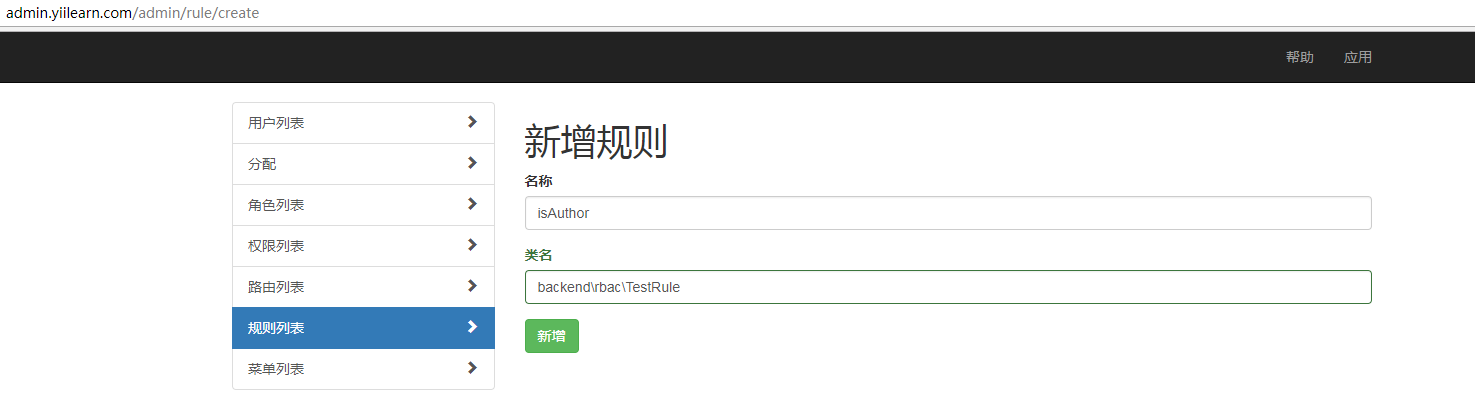
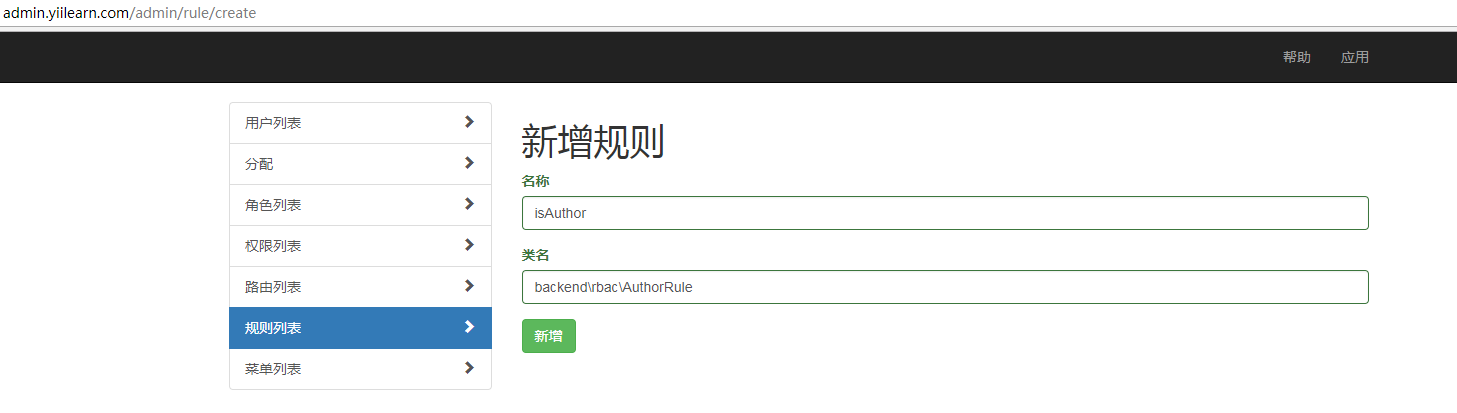
rbac

diff --git a/_posts/yii/RBAC.md b/_posts/yii/RBAC.md
@@ -1,3 +1,13 @@
+---
+title: Yii-RBAC
+date: 2018-10-11 00:00:02
+tags:
+    - yii
+    - RBAC
+    - yii-admin
+categories:
+    - yii  
+---
 
 ## 说明  
 可以先参看 [中文官方文档](https://www.yiichina.com/doc/guide/2.0/security-authorization)  
@@ -122,17 +132,68 @@ yii migrate --migrationPath=@mdm/admin/migrations
 
 ![test](/images/yii/rbac/admin-test3.png)
 
-<<<<<<< HEAD
-![test](/images/yii/rbac/admin-test3.png)  
-=======
 ![test](/images/yii/rbac/admin-test3.png)
 ### 规则 rule  
-规则是对权限的补充，算是细分的权限，一般权限是对应这路由的，而规则可以更细一点，比方说一个角色没有更新文章的权限，但是可以有更新自己文章的权限，这个时候就用到rule了  
+规则是对权限的补充，算是细分的权限，一般权限是对应这路由的，而规则可以更细一点，比方说一个角色没有更新文章的权限，但是他需要更新自己文章的权限，这时就需要给他赋值更新文章的权限，但是这样他权限就太大了，因为还可以更新别人的文章，这时就需要给他增加一个rule，来验证这篇文章是否属于自己，如果不属于自己则依旧没权限  
+
+我们以官网使用rule为例子 [这里](https://www.yiichina.com/doc/guide/2.0/security-authorization) 来用 yii-admin 的方式实现  
 
 
 首先创建 rule 类, 如下    
 ```php
+<?php
+namespace backend\rbac;
+
+use yii\rbac\Rule;
+
+/**
+ * 创建规则，相对于路由(权限)的权限更加细分
+ * 如果该用户满足某个路由(权限)，但是不满足规则依旧不可以访问
+ */
+class AuthorRule extends Rule
+{
+    // 规则名
+    public $name = 'isAuthor';
+
+    /**
+     * @param string|integer $user 用户 ID.
+     * @param Item $item 该规则相关的角色或者权限
+     * @param array $params get参数
+     * @return boolean 代表该规则相关的角色或者权限是否被允许
+     */
+    public function execute($user, $item, $params)
+    {
+        /**
+         * 请求 和参数值 route:http://admin.yiilearn.com/test/index3?id=10
+{
+    "user": 2,
+    "item": {
+        "type": "2",
+        "name": "updateOwnPost",
+        "description": "更新自己的",
+        "ruleName": "isAuthor",
+        "data": {
+            "abc": "cba"
+        },
+        "createdAt": "1539229574",
+        "updatedAt": "1539229574"
+    },
+    "params": {
+        "id": "10"
+    }
+}
+         */
+        // echo json_encode(['user' => $user, 'item' => $item, 'params' => $params]);exit;
+        // 直接返回false表示拒绝，具体的实现可以通过参数进行逻辑判断  
+        return false;
+    }
+}
 ```
+我们现在已经有 ibunao 用户了，角色(role1)、权限、路由如下  
+![rule](/images/yii/rbac/admin-rule7.png)  
+![rule](/images/yii/rbac/admin-rule8.png)  
+
+现在我们添加用户 jidan 用户，为了让其访问 `/test/index3`  
 
 添加rule  
 
@@ -142,7 +203,7 @@ yii migrate --migrationPath=@mdm/admin/migrations
 
 ![rule](/images/yii/rbac/admin-rule2.png)  
 
-为权限或者角色添加rule  
+增加权限绑定rule  
 
 ![rule](/images/yii/rbac/admin-rule3.png)
 
@@ -150,25 +211,50 @@ yii migrate --migrationPath=@mdm/admin/migrations
 
 ![rule](/images/yii/rbac/admin-rule4.png)
 
-#### 发现错误  
-添加完了我们验证一下   
-![rule](/images/yii/rbac/admin-rule5.png)  
-发现无权限(正常)，并且没有走rule，这是因为什么呢？  
-还记得 文章开头 **说明** 部分将的yii、yii-admin验证的区别么？  
-yii-admin 验证的时候验证的是 route ，也就是 `/goods/index`，验证的rule当然也就是 `/goods/index` 绑定的 rule  
-而我错误的将 rule 设置到了 权限 test1 上了，但是这个先不用改，我们来验证一下 yii验证 和 yii-admin验证的区别  
-为了使用 yii 的验证，我们需要改动两个地方  
+然后就是创建角色 role2, 并绑定用户 jidan    
+
+![rule](/images/yii/rbac/admin-rule9.png)
+
+
+#### Rule类进行检验  
+我们可以直接在 `execute()` 方法中返回 `true` 或 `false` , 请求 `http://admin.yiilearn.com/test/index3?id=10` 会发现分别是可以访问和拒绝访问，表示我们设置的rule已经生效了  
+我们可以根据传过来的参数来进行自己的逻辑判断，来进行拒绝和通过  
 ```php
-配置文件 config/main.php 注释掉 使用 yii-admin 验证的部分  
+请求:http://admin.yiilearn.com/test/index3?id=10  
+execute 方法接收到的参数
+{
+    "user": 2, # 用户id
+    "item": { # 权限信息
+        "type": "2",
+        "name": "updateOwnPost",
+        "description": "更新自己的",
+        "ruleName": "isAuthor",
+        "data": {
+            "abc": "cba"
+        },
+        "createdAt": "1539229574",
+        "updatedAt": "1539229574"
+    },
+    "params": { # 请求参数
+        "id": "10"
+    }
+}
+```
+
+#### 使用yii的验证  
+
+```php
+1. 配置文件 config/main.php 注释掉 使用 yii-admin 验证的部分或者允许test/index3进行访问  
 // 'as access' => [
 //     'class' => 'mdm\admin\components\AccessControl',
 //     'allowActions' => [
 //         'site/*',//允许访问的节点，可自行添加
 //         'admin/*',//允许所有人访问admin节点及其子节点
+//         //'test/index3'
 //     ]
 // ],
-
-在 GoodsController 控制器添加验证，这个忘记的可以参看 AFC验证 部分    
+2. 在使用的类加过滤器  
+在 TestController 控制器添加验证，这个忘记的可以参看 AFC验证 部分    
 public function behaviors()
 {
     return [
@@ -176,23 +262,39 @@ public function behaviors()
             'class' => AccessControl::className(),
             'rules' => [
                 [
-                    'actions' => ['index'],
+                    'actions' => ['index3'],
                     'allow' => true,
-                    'roles' => ['role1'],
+                    'roles' => ['/test/index3'],
                     'roleParams' => ['a', 'b', 'c'],
                 ],
             ],
         ],
     ];
 }
+
+这是 execute 方法接收的参数为  
+{
+    "user": 2, # 用户id
+    "item": { # 权限详情
+        "type": "2",
+        "name": "updateOwnPost",
+        "description": "更新自己的",
+        "ruleName": "isAuthor",
+        "data": {
+            "abc": "cba"
+        },
+        "createdAt": "1539229574",
+        "updatedAt": "1539229574"
+    },
+    "params": [ # roleParams 配置的参数
+        "a",
+        "b",
+        "c"
+    ]
+}
 ```
-你会发现很自然的通过了，因为这个检验的逻辑是判断当前用户是访问 `goods/index` 时，用户的角色是否是 `role1`,符合也就很自然的通过了  
 
-#### 更正  
-将代码改回 yii-admin 验证  
-首先我们要添加
 
->>>>>>> 8124fc1b1c91734b1ae78a0f99b4606eba765757
 ### 用户列表  
 `yii-admin` 为后台也提供了一系列的用户操作功能（注册、改密码等），但是默认是没有显示的，需要自己根据自己的需要添加按钮  
 

diff --git a/_posts/yii/AFC验证.md b/_posts/yii/AFC验证.md
@@ -1,0 +1,83 @@
+---
+title: Yii-AFC验证
+date: 2018-10-11 00:00:02
+tags:
+    - yii
+    - AFC验证
+categories:
+    - yii  
+---
+
+
+## 实例  
+```
+use yii\web\Controller;
+use yii\filters\AccessControl;
+
+class SiteController extends Controller
+{
+    public function behaviors()
+    {
+        return [
+            'access' => [
+                'class' => AccessControl::className(),
+                'only' => ['login', 'logout', 'signup'],
+                'except' => ['login'],
+                'rules' => [
+                    [
+                        'allow' => true,
+                        'actions' => ['login', 'signup'],
+                        'roles' => ['?'],
+                    ],
+                    [
+                        'allow' => true,
+                        'actions' => ['logout'],
+                        'roles' => ['@'],
+                    ],
+                ],
+            ],
+        ];
+    }
+    // ...
+}
+```
+## 验证流程    
+### AccessControl过滤器   
+> 注意，如果AccessControll配置的需要验证的action，在配置的rules中如果验证没有通过或者没有rule来验证当前请求的action(也就是不符合所有rule需要验证的action)都会拒绝访问  
+
+####  `only` 和 `except` 配置  
+`only` 表示需要验证的 `actionId` ,如果为空，这个控制器的所有action都将会向下进行验证逻辑  
+
+`except` 表示过滤掉的 `actionId` 这些action将不会走校验， `except` 的优先级更高，如果同时属于 `only` 和 `except` 那么这个action将不会走验证  
+
+#### denyCallback 配置  
+这个是配置一个匿名函数，一般也不用配置，在 rule 被拒绝的时候如果 rule 没有配置 `denyCallback` 将会执行这个，通常用来抛出异常的，可以参考 yii的兜底方法 `denyAccess`  
+
+### AccessRule 验证规则  
+#### 配置  
+```php
+# 必填，如果为false表示不管通过不通过验证，都为false拒绝  
+'allow' => true,
+# 选填，判断当前action是否属于验证的范围，如果为空，表示所有action都要验证  
+'actions' => ['login', 'signup'],
+# 选填，判断当前controller是否属于验证的范围，如果为空，表示所有controller都要验证  
+'controllers' => ['site'],
+# 选填，判断当前 ip 是否属于验证的范围，如果为空，表示所有 ip 都要验证  
+'ips' => ['192.168.*'],
+# 选填，判断当前 请求方式 是否属于验证的范围，如果为空，表示所有 请求方式 都要验证
+'verbs' => ['post'],  
+# 选填，添加额外的自定义验证方法，如果不设置role参数，也就意味着只验证此方法  
+'matchCallback' => function ($rule, $action){},  
+# 选填，一般也不用配置，当验证失败时执行   
+'denyCallback' => function ($rule, $action){},  
+```
+最后两个参数也是验证的关键  
+```
+role => ['@', '?', 'otherRole']
+
+? : 表示允许未登录的访问  
+@ : 表示未登录才能访问
+otherRole : 其他的都是对应的权限/角色 详见RBAC   
+
+roleParams => function($rule){} || String || Array # （算出来的）值将会作为权限的参数  
+```
